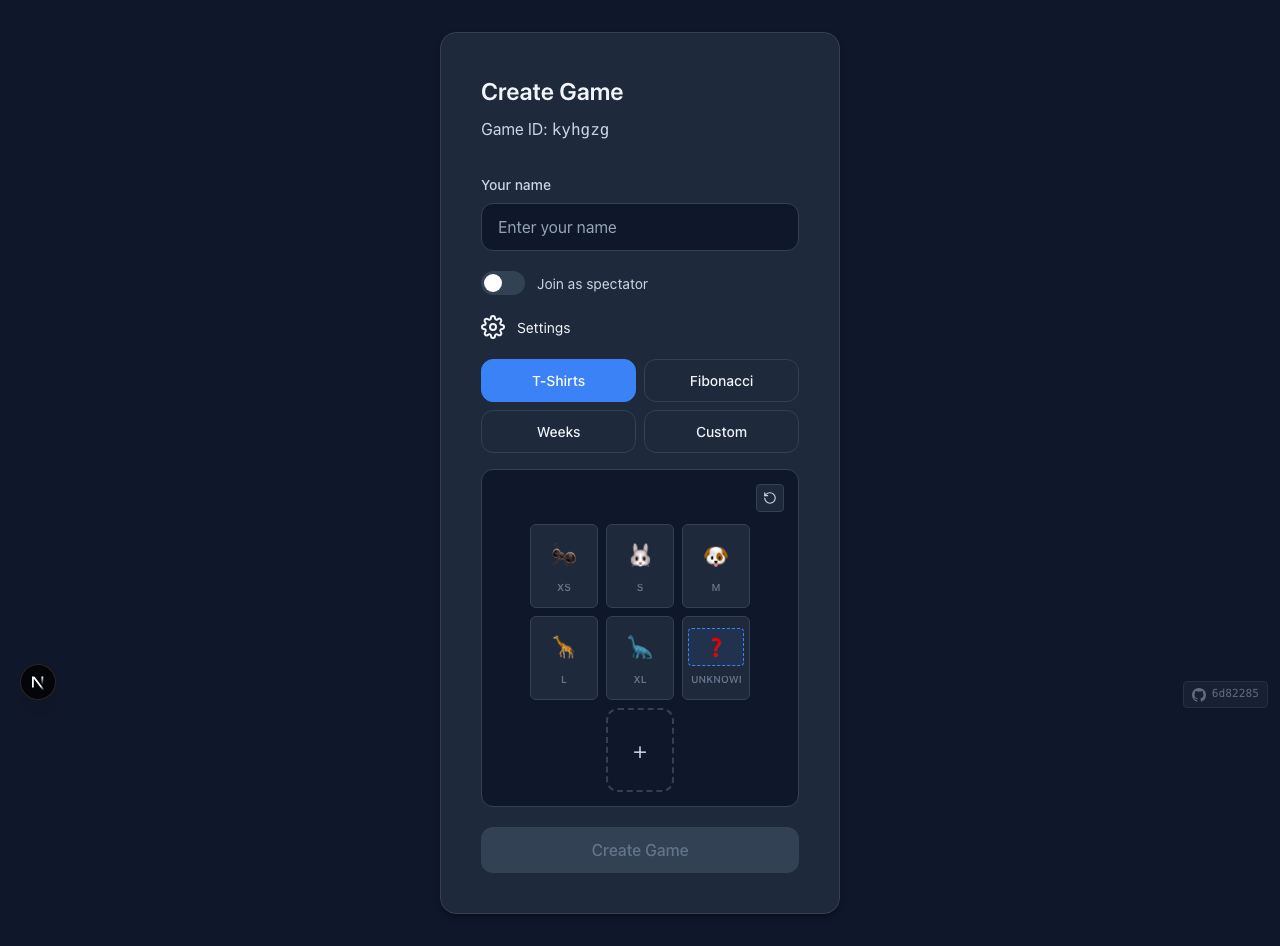
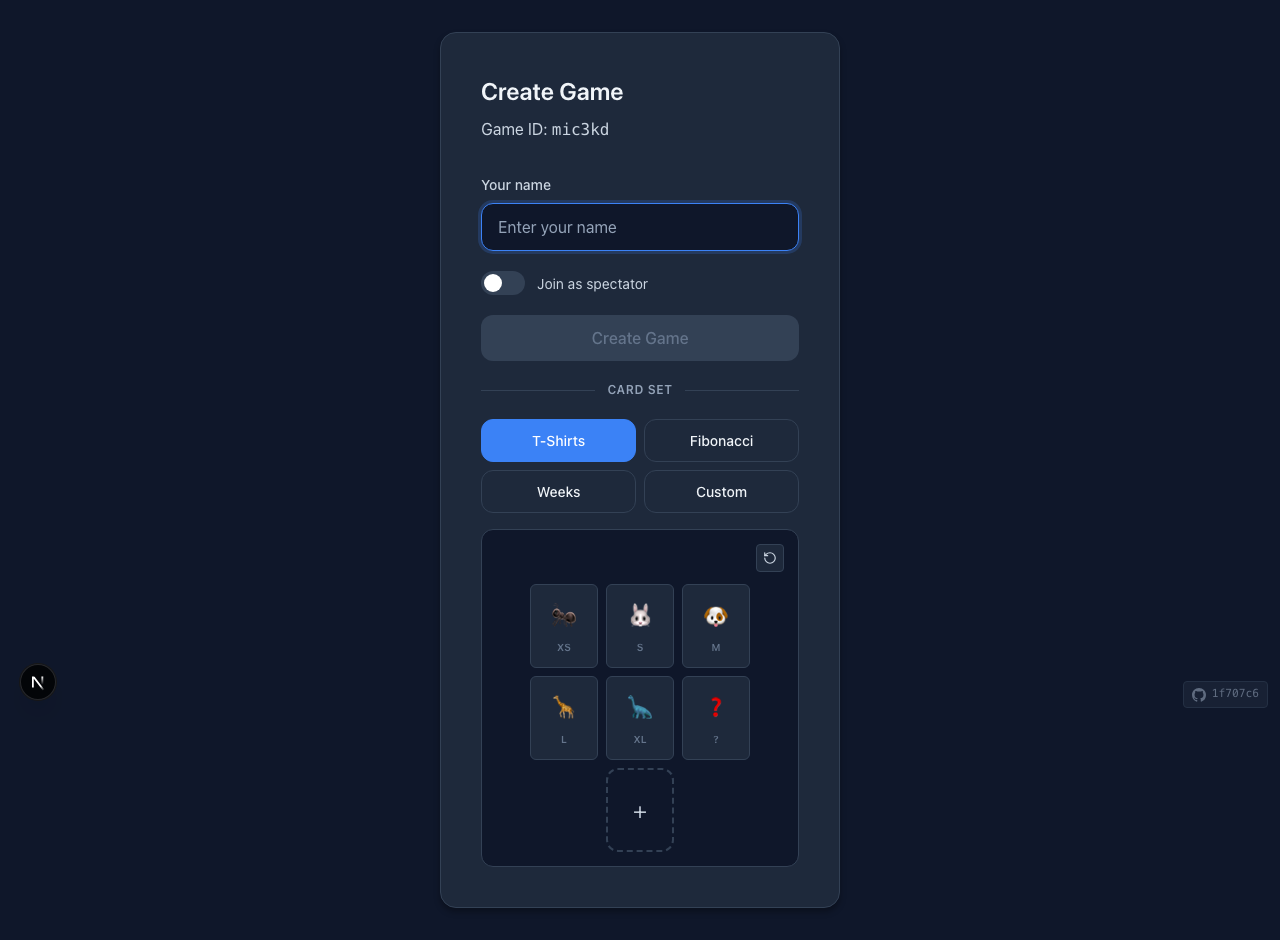
feat: streamline create-game card set UI
Simplify the create-game form's card set section and refine the
editable-cards affordance.

- JoinGameForm: remove the collapsible Settings toggle and always show
  the card set options when creating. Move the Create Game submit
  button above the options, separated by a new "Card Set" divider.
  Joiners are unaffected (Join Game button only, no card set section).
- CardSetSelector: only auto-focus the first card input (the typing
  cursor "editable" hint) for the custom preset. Fibonacci, T-shirts,
  and Weeks no longer steal focus on selection while remaining fully
  editable; the reset button follows the same rule.
- styles: add .join-divider / .join-divider-text (centered "Card Set"
  label) and drop the now-unused .settings-toggle-button rules.
- e2e: update joining and visual-regression specs to reflect the
  always-expanded card set (no Settings toggle to click/assert), and
  regenerate the affected create-form visual baselines.

diff --git a/components/JoinGameForm.tsx b/components/JoinGameForm.tsx
@@ -1,7 +1,6 @@
 import { useState } from 'react';
 import { CardSet, CARD_PRESETS } from '@/lib/constants';
 import { CardSetSelector } from '@/components/CardSetSelector';
-import { GearIcon } from '@/components/icons';
 
 export interface JoinFormData {
   displayName: string;
@@ -30,7 +29,6 @@ export function JoinGameForm({
     preset: 'tshirt',
     cards: [...CARD_PRESETS.tshirt.cards],
   });
-  const [showCardSetOptions, setShowCardSetOptions] = useState(isCreating);
 
   const handleSubmit = (e: React.FormEvent) => {
     e.preventDefault();
@@ -95,36 +93,35 @@ export function JoinGameForm({
             </label>
           </div>
 
-          {isCreating && (
+          {isCreating ? (
             <>
               <button
-                type="button"
-                className={`settings-toggle-button ${showCardSetOptions ? 'expanded' : ''}`}
-                onClick={() => setShowCardSetOptions(!showCardSetOptions)}
-                aria-expanded={showCardSetOptions}
+                type="submit"
+                disabled={!formState.displayName?.trim()}
+                className="join-button"
               >
-                <GearIcon />
-                <span>Settings</span>
+                Create Game
               </button>
-              {showCardSetOptions && (
-                <div className="join-form-group settings-options-container">
-                  <CardSetSelector
-                    initialCardSet={cardSet}
-                    onCardSetChange={setCardSet}
-                    hideHeader
-                  />
-                </div>
-              )}
+              <div className="join-divider">
+                <span className="join-divider-text">Card Set</span>
+              </div>
+              <div className="join-form-group settings-options-container">
+                <CardSetSelector
+                  initialCardSet={cardSet}
+                  onCardSetChange={setCardSet}
+                  hideHeader
+                />
+              </div>
             </>
+          ) : (
+            <button
+              type="submit"
+              disabled={!formState.displayName?.trim()}
+              className="join-button"
+            >
+              Join Game
+            </button>
           )}
-
-          <button
-            type="submit"
-            disabled={!formState.displayName?.trim()}
-            className="join-button"
-          >
-            {isCreating ? 'Create Game' : 'Join Game'}
-          </button>
         </form>
       </div>
     </div>

diff --git a/styles/game.scss b/styles/game.scss
@@ -121,37 +121,26 @@
   color: $text-secondary;
 }
 
-.settings-toggle-button {
+.join-divider {
   display: flex;
   align-items: center;
   gap: 0.75rem;
-  width: 100%;
-  padding: 0;
-  background: transparent;
-  border: none;
-  color: $text-secondary;
-  font-size: 0.875rem;
-  cursor: pointer;
-  transition: color 0.15s ease;
 
-  &:hover {
-    color: $text-primary;
+  &::before,
+  &::after {
+    content: '';
+    flex: 1;
+    height: 1px;
+    background: $dark-border;
   }
+}
 
-  &.expanded {
-    color: $text-primary;
-  }
-
-  svg {
-    width: 24px;
-    height: 24px;
-    flex-shrink: 0;
-    transition: transform 1s ease;
-  }
-
-  &.expanded svg {
-    transform: rotate(180deg);
-  }
+.join-divider-text {
+  color: $text-muted;
+  font-size: 0.75rem;
+  font-weight: 600;
+  text-transform: uppercase;
+  letter-spacing: 0.05em;
 }
 
 .settings-options-container {

diff --git a/e2e/joining.spec.ts b/e2e/joining.spec.ts
@@ -341,7 +341,7 @@ test.describe('Joining a Game', () => {
       await closeContexts(aliceContext, bobContext);
     });
 
-    test('should show card set toggle only when creating game', async ({
+    test('should show card set selector only when creating game', async ({
       browser,
     }) => {
       const aliceContext = await browser.newContext();
@@ -351,21 +351,14 @@ test.describe('Joining a Game', () => {
 
       const gameId = generateUniqueGameId();
 
-      // Alice sees card set selector expanded by default when creating
+      // Alice sees the card set selector expanded by default when creating
       await navigateToGame(alicePage, gameId);
       await waitForJoinFormVisible(alicePage);
       await expect(
         alicePage.getByRole('heading', { name: 'Create Game' })
       ).toBeVisible({ timeout: 10000 });
-      await expect(
-        alicePage.getByRole('button', { name: /Settings/ })
-      ).toBeVisible();
 
       await expect(alicePage.locator('.card-set-selector')).toBeVisible();
-
-      // Clicking Settings collapses it
-      await alicePage.getByRole('button', { name: /Settings/ }).click();
-      await expect(alicePage.locator('.card-set-selector')).not.toBeVisible();
 
       await alicePage.getByPlaceholder('Enter your name').fill('Alice');
       await alicePage.getByRole('button', { name: 'Create Game' }).click();
@@ -378,9 +371,7 @@ test.describe('Joining a Game', () => {
       await expect(
         bobPage.getByRole('heading', { name: 'Join Game' })
       ).toBeVisible({ timeout: 10000 });
-      await expect(
-        bobPage.getByRole('button', { name: /Settings/ })
-      ).not.toBeVisible();
+      await expect(bobPage.locator('.card-set-selector')).not.toBeVisible();
 
       await closeContexts(aliceContext, bobContext);
     });

diff --git a/e2e/visual-regression.spec.ts b/e2e/visual-regression.spec.ts
@@ -194,9 +194,7 @@ test.describe('Visual Regression Tests', () => {
       await expect(
         page.getByRole('heading', { name: 'Create Game' })
       ).toBeVisible({ timeout: 10000 });
-      await expect(
-        page.getByRole('button', { name: /Settings/ })
-      ).toBeVisible();
+      await expect(page.locator('.card-set-selector')).toBeVisible();
 
       await page.waitForTimeout(300);
 
@@ -215,7 +213,6 @@ test.describe('Visual Regression Tests', () => {
       await expect(
         page.getByRole('heading', { name: 'Create Game' })
       ).toBeVisible({ timeout: 10000 });
-      await page.getByRole('button', { name: /Settings/ }).click();
       await expect(page.locator('.card-set-selector')).toBeVisible();
 
       await page.waitForTimeout(300);
@@ -268,7 +265,6 @@ test.describe('Visual Regression Tests', () => {
       await navigateToGame(page, gameId);
 
       await expect(page.locator('.join-form')).toBeVisible();
-      await page.getByRole('button', { name: /Settings/ }).click();
       await expect(page.locator('.card-set-selector')).toBeVisible();
       await expect(page.locator('.card-set-editor')).toBeVisible();
       await page.waitForTimeout(300);
@@ -326,7 +322,6 @@ test.describe('Visual Regression Tests', () => {
       await navigateToGame(page, gameId);
 
       await expect(page.locator('.join-form')).toBeVisible();
-      await page.getByRole('button', { name: /Settings/ }).click();
       await expect(page.locator('.card-set-selector')).toBeVisible();
 
       const labelInputs = page.locator('.card-set-editor-card-label');

diff --git a/components/CardSetSelector.tsx b/components/CardSetSelector.tsx
@@ -90,7 +90,7 @@ export function CardSetSelector({
   };
 
   const handlePresetChange = (preset: CardPresetType) => {
-    focusTargetRef.current = 'first';
+    focusTargetRef.current = preset === 'custom' ? 'first' : null;
     setSelectedPreset(preset);
     const cards = presetCards[preset];
     onCardSetChange({
@@ -100,7 +100,7 @@ export function CardSetSelector({
   };
 
   const handleResetPreset = () => {
-    focusTargetRef.current = 'first';
+    focusTargetRef.current = selectedPreset === 'custom' ? 'first' : null;
     const defaultCards =
       selectedPreset === 'custom'
         ? [{ value: '', label: '', description: '' }]